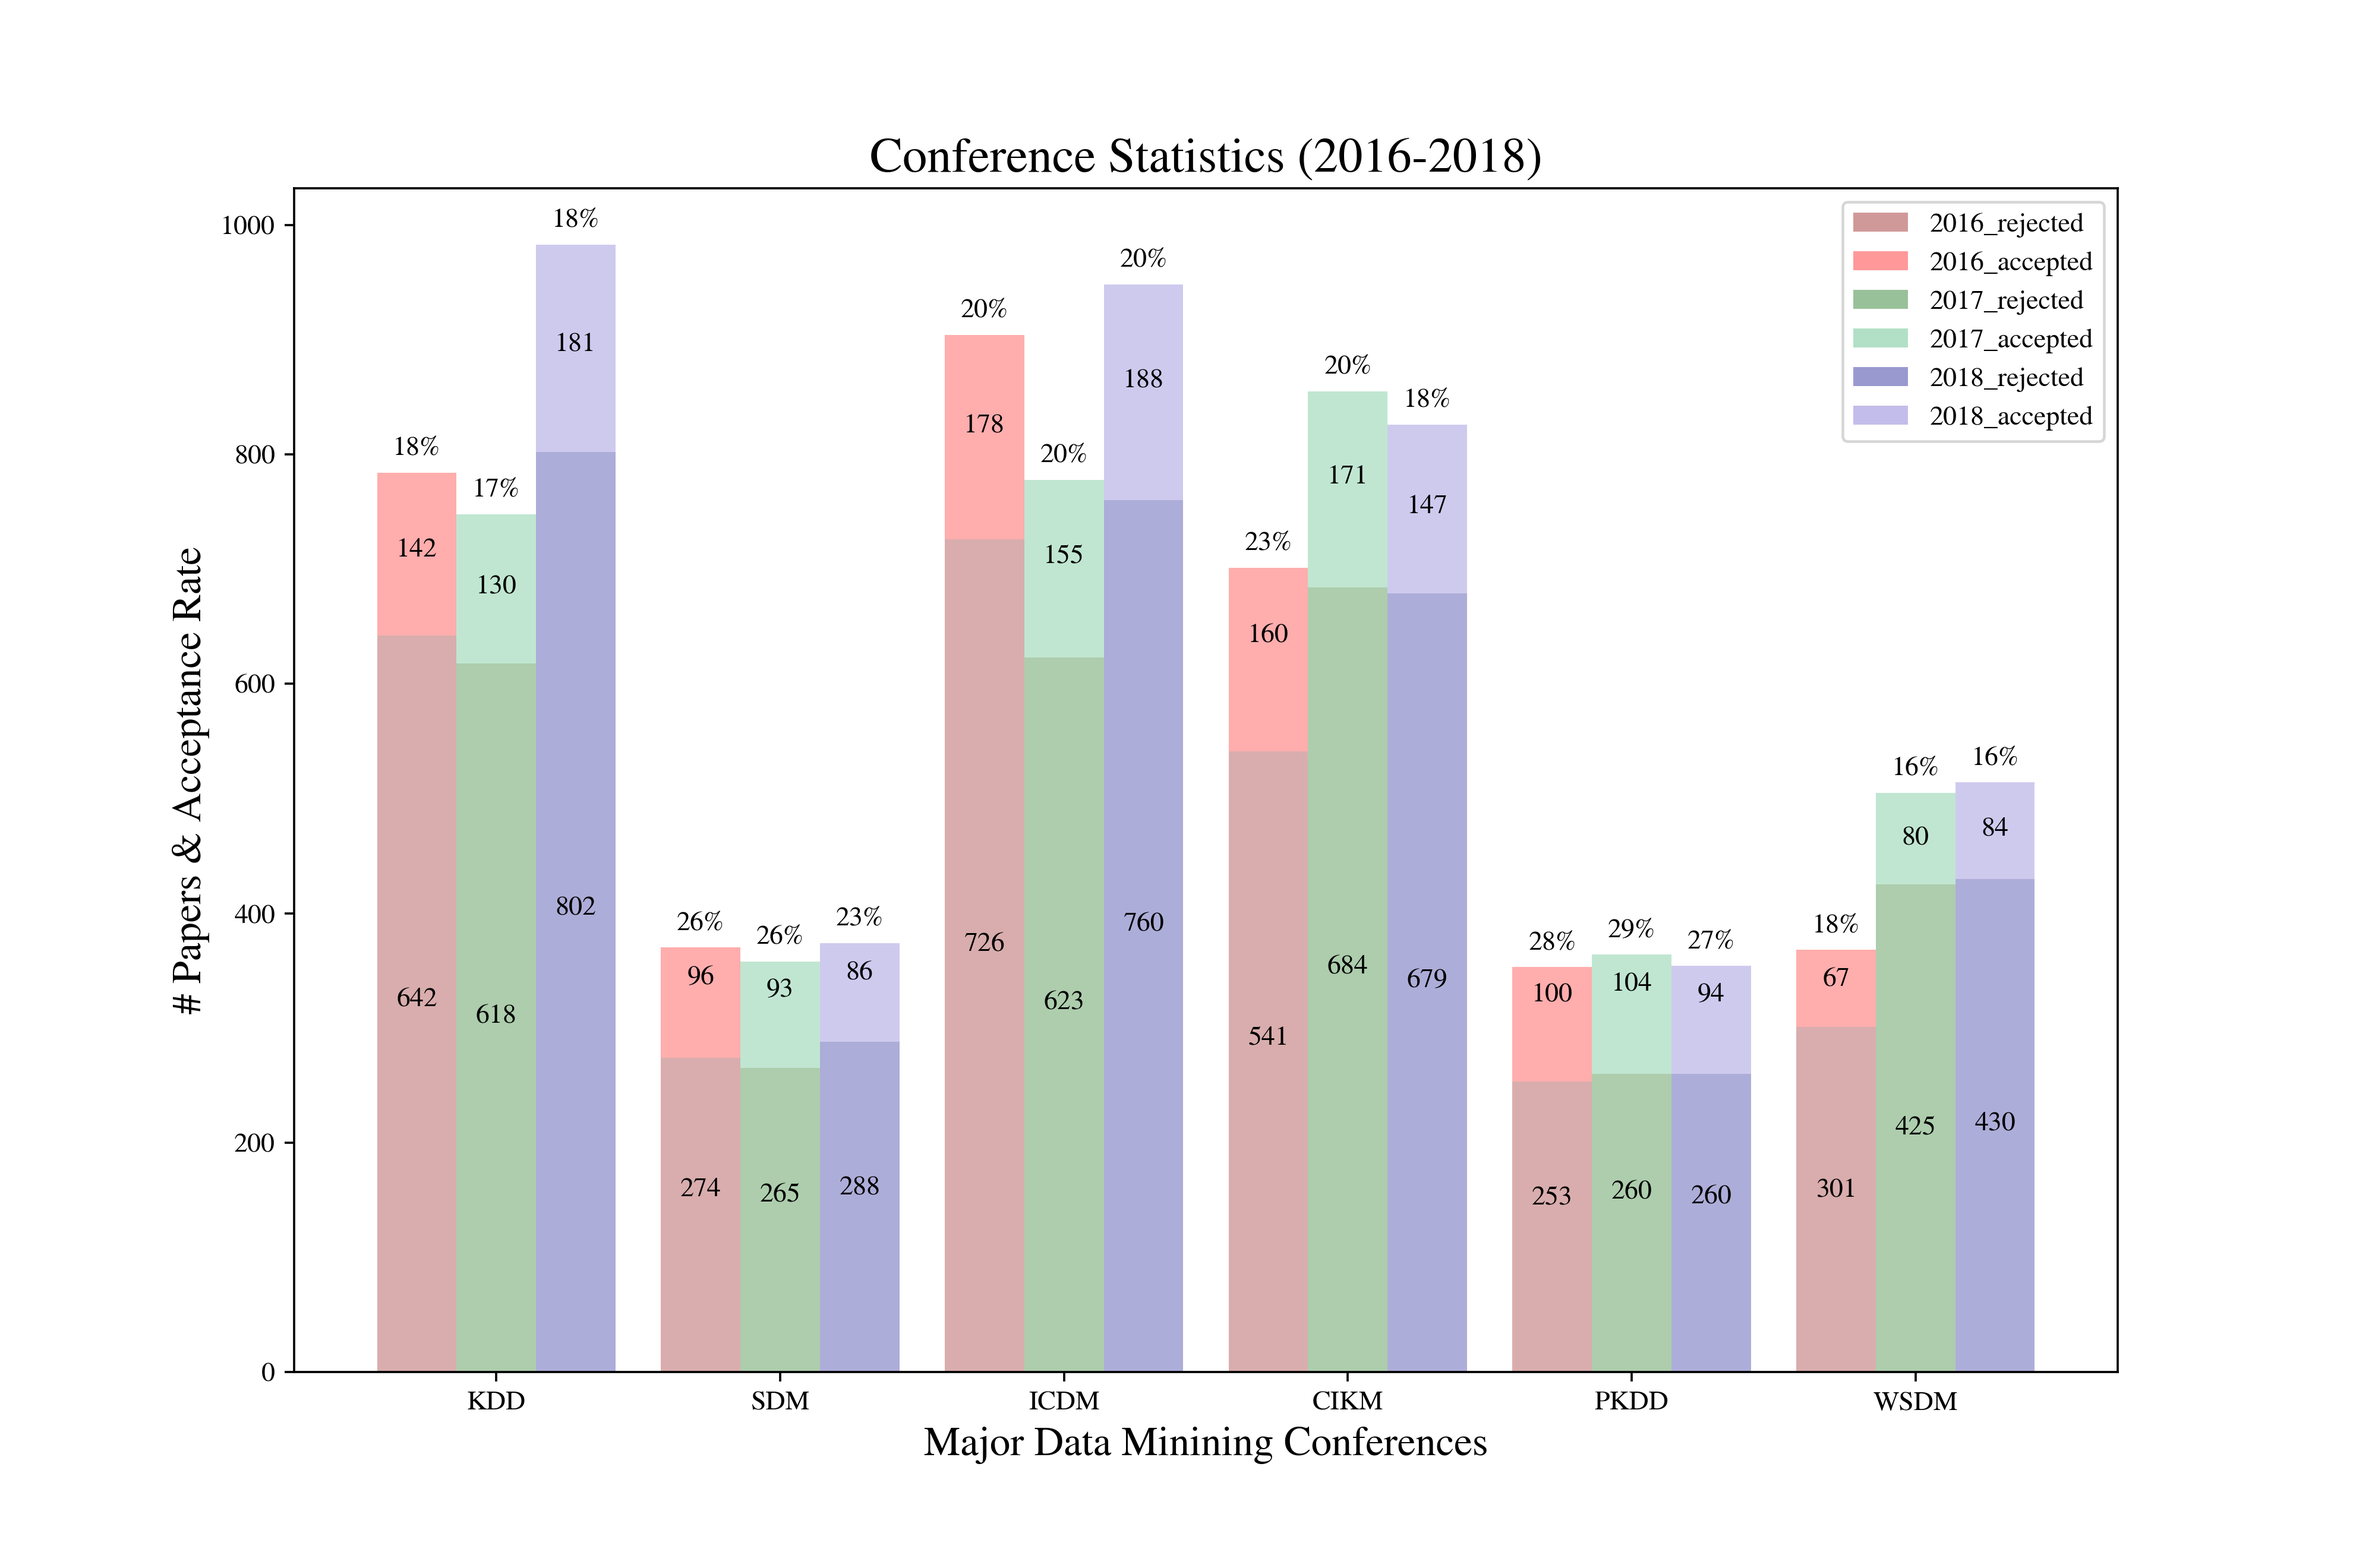
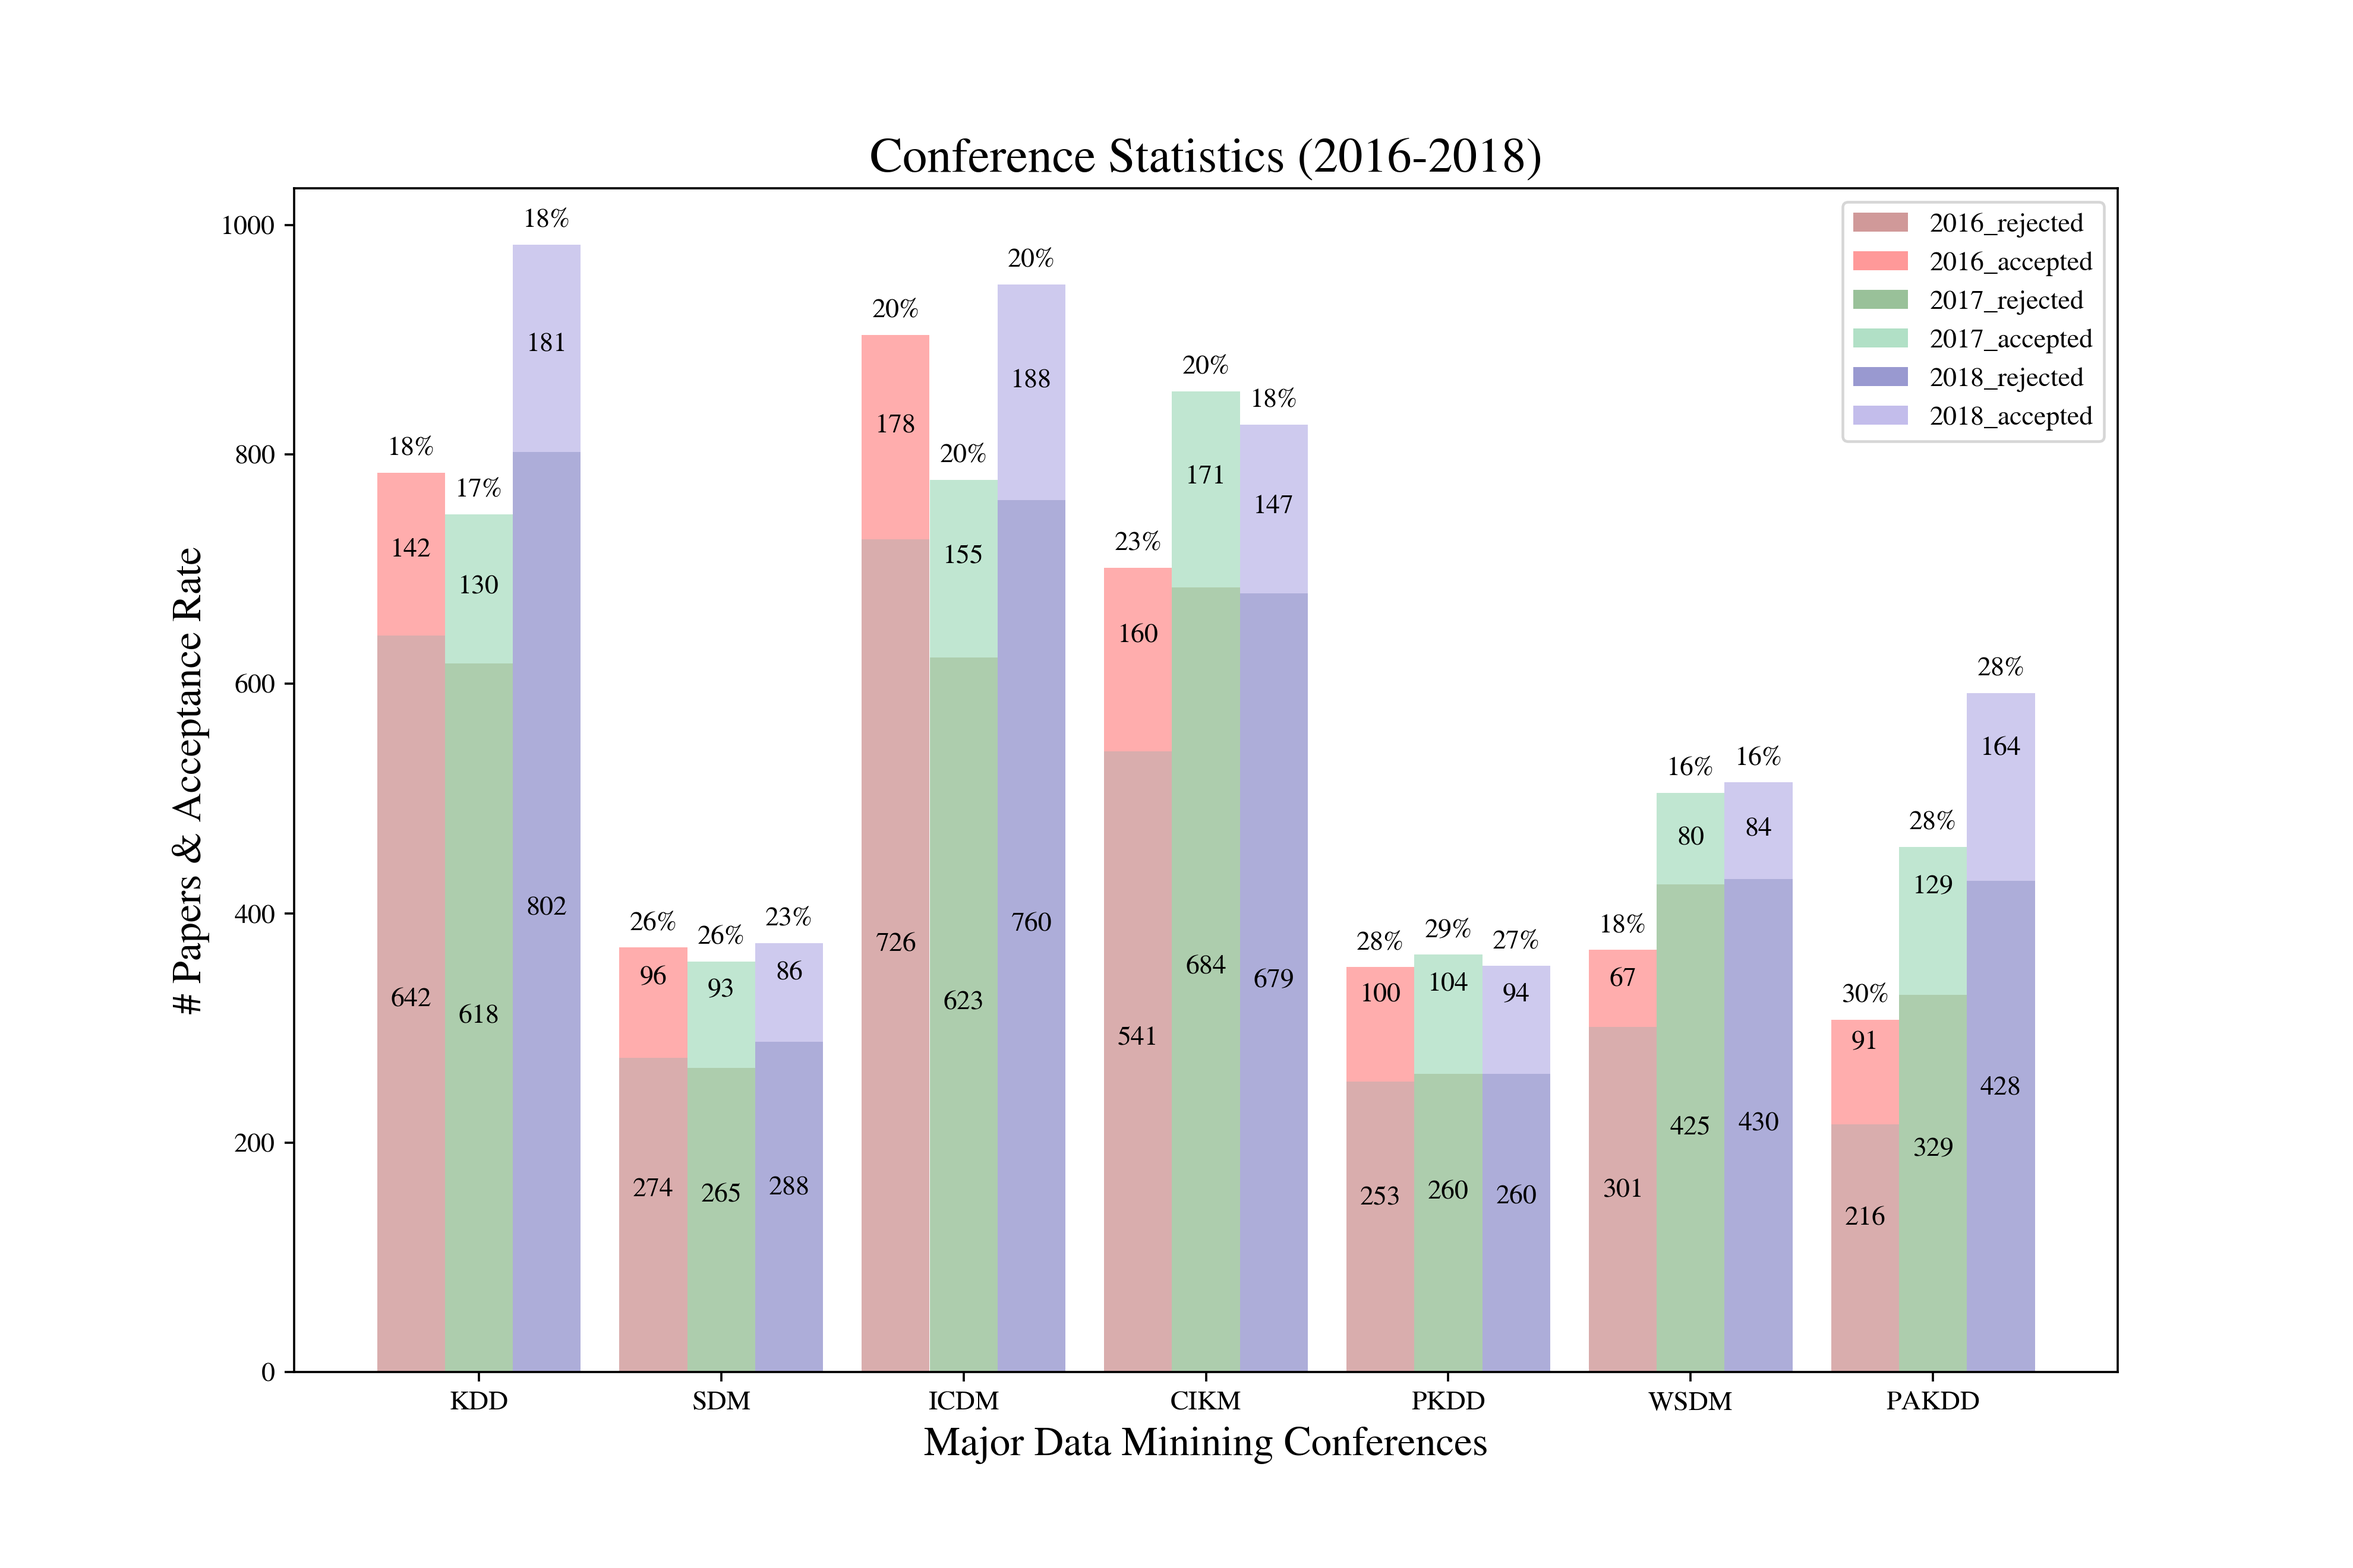
Add PAKDD plot

Changed region(s): [[0.1553, 0.1242, 0.8697, 0.9008], [0.1553, 0.2795, 0.1864, 0.3106]]

diff --git a/plot.py b/plot.py
@@ -16,18 +16,18 @@ matplotlib.rcParams['font.family'] = 'STIXGeneral'
 
 n_groups = 6
 
-submitted_2016 = np.asarray([784, 370, 904, 701, 353, 368])
-accepted_2016 = np.asarray([142, 96, 178, 160, 100, 67])
+submitted_2016 = np.asarray([784, 370, 904, 701, 353, 368, 307])
+accepted_2016 = np.asarray([142, 96, 178, 160, 100, 67, 91])
 rejected_2016 = submitted_2016 - accepted_2016
 accp_rate_2016 = np.rint((accepted_2016 / submitted_2016) * 100).astype(int)
 
-submitted_2017 = np.asarray([748, 358, 778, 855, 364, 505])
-accepted_2017 = np.asarray([130, 93, 155, 171, 104, 80])
+submitted_2017 = np.asarray([748, 358, 778, 855, 364, 505, 458])
+accepted_2017 = np.asarray([130, 93, 155, 171, 104, 80, 129])
 rejected_2017 = submitted_2017 - accepted_2017
 accp_rate_2017 = np.rint((accepted_2017 / submitted_2017) * 100).astype(int)
 
-submitted_2018 = np.asarray([983, 374, 948, 826, 354, 514])
-accepted_2018 = np.asarray([181, 86, 188, 147, 94, 84])
+submitted_2018 = np.asarray([983, 374, 948, 826, 354, 514, 592])
+accepted_2018 = np.asarray([181, 86, 188, 147, 94, 84, 164])
 rejected_2018 = submitted_2018 - accepted_2018
 accp_rate_2018 = np.rint((accepted_2018 / submitted_2018) * 100).astype(int)
 
@@ -123,7 +123,7 @@ ax.set_xlabel('Major Data Minining Conferences', fontsize=15)
 ax.set_ylabel('# Papers & Acceptance Rate', fontsize=15)
 ax.set_title('Conference Statistics (2016-2018)', fontsize=18)
 ax.set_xticks(index + bar_width)
-ax.set_xticklabels(('KDD', 'SDM', 'ICDM', 'CIKM', 'PKDD', 'WSDM'))
+ax.set_xticklabels(('KDD', 'SDM', 'ICDM', 'CIKM', 'PKDD', 'WSDM', 'PAKDD'))
 ax.legend()
 
 
